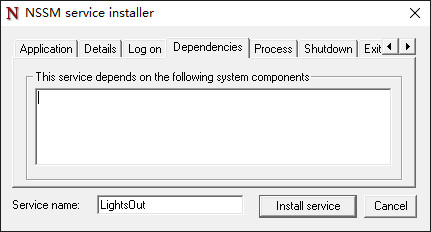
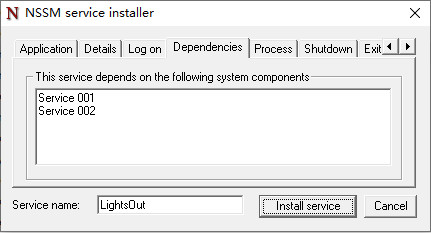
writing

diff --git a/55_系统运维/202205250901_nssm/nssm.md b/55_系统运维/202205250901_nssm/nssm.md
@@ -14,15 +14,83 @@ nssm
 
 
 
+### 关于 `Windows` 服务不得不说的秘密
+
+我们想要说明白 `Windows` 服务的一些特殊性，那就必须将它拿来与普通应用程序相比较，这样我们立刻就理解了。
+
+首先，`Windows` 服务是在系统后台悄悄地运行的，从表面上你是看不到它的，它也没有界面。
+
+其次，`Windows` 服务是以 `SYSTEM` 或其他系统用户运行的，普通用户不能直接关闭程序。
+
+最后，`Windows` 服务必须注册到系统中才能正常使用，并且服务的启动、停止等操作都必须有专门的消息接口来操控，说白了就是服务有自己的一套操作规范。
+
+
+
+有的小伙伴会问，那我随便拿一个程序过来，然后将它注册成服务不就可以了嘛！
+
+在这里我想强调的是最后一点，实际上没那么简单，并不是随便一个应用程序就可以将它作为服务运行的。
+
+即使你注册成功，这个程序也未必启动得起来。
+
+不过现在我们遇到了一个很牛叉的程序，它号称可以将任何程序当作服务来跑，它就是 `nssm` 。
+
+那么这个 `nssm` 是不是在吹牛呢？
+
+是业界奇迹，还是弥天大谎，接下来我们就一同见证！
+
+
+
+### 服务助手界的扛把子 `NSSM`
+
+除了号称可将任意应用程序作为服务运行之外，`nssm` 还怒怼了其他同行，比如 `srvany` 等。
+
+说有时服务看起来跑得欢，实际早已是死翘翘，但助手程序却浑然不觉，等等诸如此类问题，反正这也不行那也不行，总之诟病无数。
+
+反观 `nssm` 就没有这些个毛病，并且做得还更好，当程序挂了，它会自动重启服务，表现良好。
+
+同时还有进度记录到系统事件日志，还提供图形服务等等。
+
+
+
 虽然 `nssm` 的最终稳定版 `2.24` 停留在 `2014` 年，但是它还是支持 `Windows 10` 、`Windows Server 2016` 甚至是更新的 `Windows` 版本的，因此大可不必担心是否能正常使用的问题。
 
+我们将 `nssm` 下载下来。
+
+
+
+下载链接：
+
+
+
+将压缩包解压，发现其中有两个名字分别是 `Win32` 和 `Win64` 的文件夹，它们分别包含了32位和64位的 `nssm.exe` 可执行文件。
+
+图a09
+
+
+
+实际上你用哪个都是可以的，不过可能有些场合下，64位系统在使用32位程序时会不起作用，这时应该对应地使用64位版本。
+
+
+
+### 如何安装
+
+`nssm.exe` 是一个独立文件，不需要我们安装它，直接拿来用就行。
+
+不过需要我们注意的是，`nssm` 工作的时候会将自己注册为事件日志消息，这就提醒我们务必要确保每一个不同的实例之间应该有相应不同的访问路径。
+
+简而言之，就是当我们需要运行多个不同的服务时，我们应该将 `nssm.exe` 分别拷贝到各个对象应用程序目录中，而每个 `nssm` 注册为服务时就不会互相影响了。
 
 
 
 
 
+### 尝试使用
 
-找了一个以前自制的小游戏试试吧。
+找了一个以前自制的小游戏程序试试吧。
+
+图a02
+
+
 
 按照前面提示过的，我们先打条安装服务的命令。
 
@@ -39,7 +107,7 @@ nssm.exe install LightsOut
 
 
 
-然后官网介绍的用法，我们只要在 `Path` 一项中简单地填入应用程序所在的完全路径，这是唯一一个必填项哦！
+然后官网介绍的用法，我们只要在 `Path` 一项中简单地填入应用程序所在的完全路径，注意这是唯一一个必填项哦！
 
 如果没有什么特殊的，那么启动目录 `Startup directory` 自动会变成应用程序所在目录。
 
@@ -57,15 +125,17 @@ nssm.exe install LightsOut
 
 
 
-赶紧去 `Windows` 服务管理器中查看，的确有名为 `LightsOut` 的一个新建服务。
+赶紧去 `Windows` 服务管理器中查看，的确有一项名为 `LightsOut` 的新建服务。
 
-不过怎么打开看时，其可执行文件的路径写的是 `nssm.exe` 的路径，这就非常奇怪了！
+不过怎么打开属性看时，其可执行文件的路径写的是 `nssm.exe` 的路径。
+
+看到这儿小伙伴们可不要感觉奇怪，前面也说过，`nssm` 会将自己注册到服务。
 
 图a06
 
 
 
-这里会不会有什么误会哈？
+那 `nssm` 会不会带动我们的应用程序运行服务呢？
 
 总之我们先尝试启动这个服务看看，嗯，服务好像正常启动了。
 
@@ -73,7 +143,7 @@ nssm.exe install LightsOut
 
 
 
-再顺手打开任务管理器，我们的应用程序 `LightsOut.exe` 确实正在运行，同时 `nssm.exe` 也在运行，它们两个都是以 `SYSTEM` 身份运行，
+再顺手打开任务管理器，我们的应用程序 `LightsOut.exe` 确实也正在运行中，同时 `nssm.exe` 也在运行，它们两个都是以 `SYSTEM` 身份运行，看样子服务启动没问题。
 
 图a08
 
@@ -81,13 +151,27 @@ nssm.exe install LightsOut
 
 有的小伙伴会说，我怎么看不到程序界面，实际上以服务形式（通常是 `SYSTEM` 用户身份）运行程序通常是看不到界面的，也就是无法通过界面来操作程序。
 
+所以说大家就不要想着以跑服务的形式来玩游戏了。
 
 
 
+### 其他设定
 
-其他一些设定。
+用 `nssm` 最简单注册服务的方法就如前面介绍的那样，只需要一个应用程序的路径即可。
 
-详细信息。
+如果我们还想要进一步完善服务设置，那么接下来还应该做些工作。
+
+
+
+##### 详细信息
+
+在此可以写上一些容易标识当前服务程序的内容。
+
+```
+nssm set <服务名称> DisplayName <服务显示名称>
+nssm set <服务名称> Description <服务详细描述>
+nssm set <服务名称> Start SERVICE_AUTO_START
+```
 
 图b01
 
@@ -101,6 +185,11 @@ nssm.exe install LightsOut
 
 此外还可以设定是否与桌面交互，或使用其他登录身份。
 
+```
+nssm set <服务名称> ObjectName LocalSystem
+nssm set <服务名称> Type SERVICE_WIN32_OWN_PROCESS
+```
+
 图b02
 
 
@@ -109,13 +198,23 @@ nssm.exe install LightsOut
 
 当前服务依赖哪些服务，可以将这些服务填写在这里。
 
+```
+nssm set <服务名称> DependOnService <所依赖服务名称>
+```
+
 图b03
 
 
 
 ##### 进程
 
-进程优先级，以及处理器分配等等，通常保持默认即可。
+程序进程优先级，以及处理器分配等等，通常保持默认即可。
+
+```
+nssm set <服务名称> AppPriority NORMAL_PRIORITY_CLASS
+nssm set <服务名称> AppNoConsole 0
+nssm set <服务名称> AppAffinity All
+```
 
 图b04
 
@@ -167,19 +266,19 @@ nssm set <服务名称> AppStderr C:\sysadm\logs\error.log
 
 网络上有些教程并没有写清楚这玩意到底是啥意思。
 
-实际上它是指多文件设定，啥意思呢，就是写完一个文件后再写一个文件。
+实际上它是指多文件设定，啥意思呢，就是写完一个文件后重新再写一个文件。
 
-举例来说，比如一个日志文件，我们不可能让它一直写下去最终导致非常庞大。
+举例来说，比如一个日志文件，我们不可能让它一直写下去，最终它变得非常庞大，导致你的头也变大。
 
-因此，通过文件轮换，那么我们可以将一个日志文件分成几个。
+因此，通过文件轮换，那么我们可以将一份日志分成几个文件。
 
-怎么分呢？
+具体怎么分呢？
 
 可以是有时间间隔的，比如过多久轮换（写一个）新文件，旧文件就不管了。
 
-也可以是有大小比较的，比如旧文件到大一定程度，那么我们就轮换成一个新文件。
+也可以是有大小阈值的，比如旧文件大到一定程度，那么我们就重新启用一个新文件。
 
-这个文件轮换方式可以和 `I/O` 结合使用。
+这种文件轮换方式可以和 `I/O` 结合使用。
 
 ```
 nssm set <服务名称> AppStdoutCreationDisposition 4
@@ -209,17 +308,28 @@ nssm set <服务名称> AppEnvironmentExtra JAVA_HOME=C:\Java\bin GO_HOME=C:\Go\
 
 
 
+### 编辑服务
 
-
-### 卸载服务
-
-很简单，带上 `remove` 卸载参数即可。
+通常使用 `get` 或 `set` 来为服务获取或设置一些参数，前面也有过示例。
 
 ```
-nssm.exe remove <服务名称>
+nssm.exe get <服务名称> <参数>
+nssm.exe get <服务名称> <参数> <子参数>
+
+nssm.exe set <服务名称> <参数> <值>
+nssm.exe set <服务名称> <参数> <子参数> <值>
 ```
 
-图c01
+
+
+如果你嫌麻烦，想将参数重置为默认值，那就直接用 `reset` 参数吧。
+
+```
+nssm.exe reset <服务名称> <参数>
+nssm.exe reset <服务名称> <参数> <子参数>
+```
+
+
 
 
 
@@ -247,24 +357,35 @@ nssm.exe rotate <服务名称>
 
 
 
-### 编辑服务
-
-通常使用 `get` 或 `set` 来为服务获取或设置一些参数，前面也有过示例。
-
-```
-nssm.exe get <服务名称> <参数>
-nssm.exe get <服务名称> <参数> <子参数>
-
-nssm.exe set <服务名称> <参数> <值>
-nssm.exe set <服务名称> <参数> <子参数> <值>
-```
 
 
+### 卸载服务
 
-如果你嫌麻烦，想将参数重置为默认值，那就直接用 `reset` 参数吧。
+很简单，带上 `remove` 卸载参数即可。
 
 ```
-nssm.exe reset <服务名称> <参数>
-nssm.exe reset <服务名称> <参数> <子参数>
+nssm.exe remove <服务名称>
 ```
+
+图c01
+
+
+
+### 写在最后
+
+除了将标准可执行文件作为服务运行之外，`nssm` 还可以管理诸如 `bat` 或 `cmd` 之类的批处理。
+
+还有，`nssm` 是支持网络路径中的应用程序的，但不应该使用如 `Z:\` 这样的网络驱动器路径，而应该使用 `UNC` 这种完整网络路径，比如 `\\server\share` 。
+
+还有很多其他比较复杂的用法，大家可以到官网上查询。
+
+对于我们小白来说，只需基本的简单的步骤就够用了。
+
+亲爱的小伙伴们，今天你们会学废了吗？
+
+
+
+**扫码关注@网管小贾，个人微信：sysadmcc**
+
+网管小贾 / sysadm.cc
 
